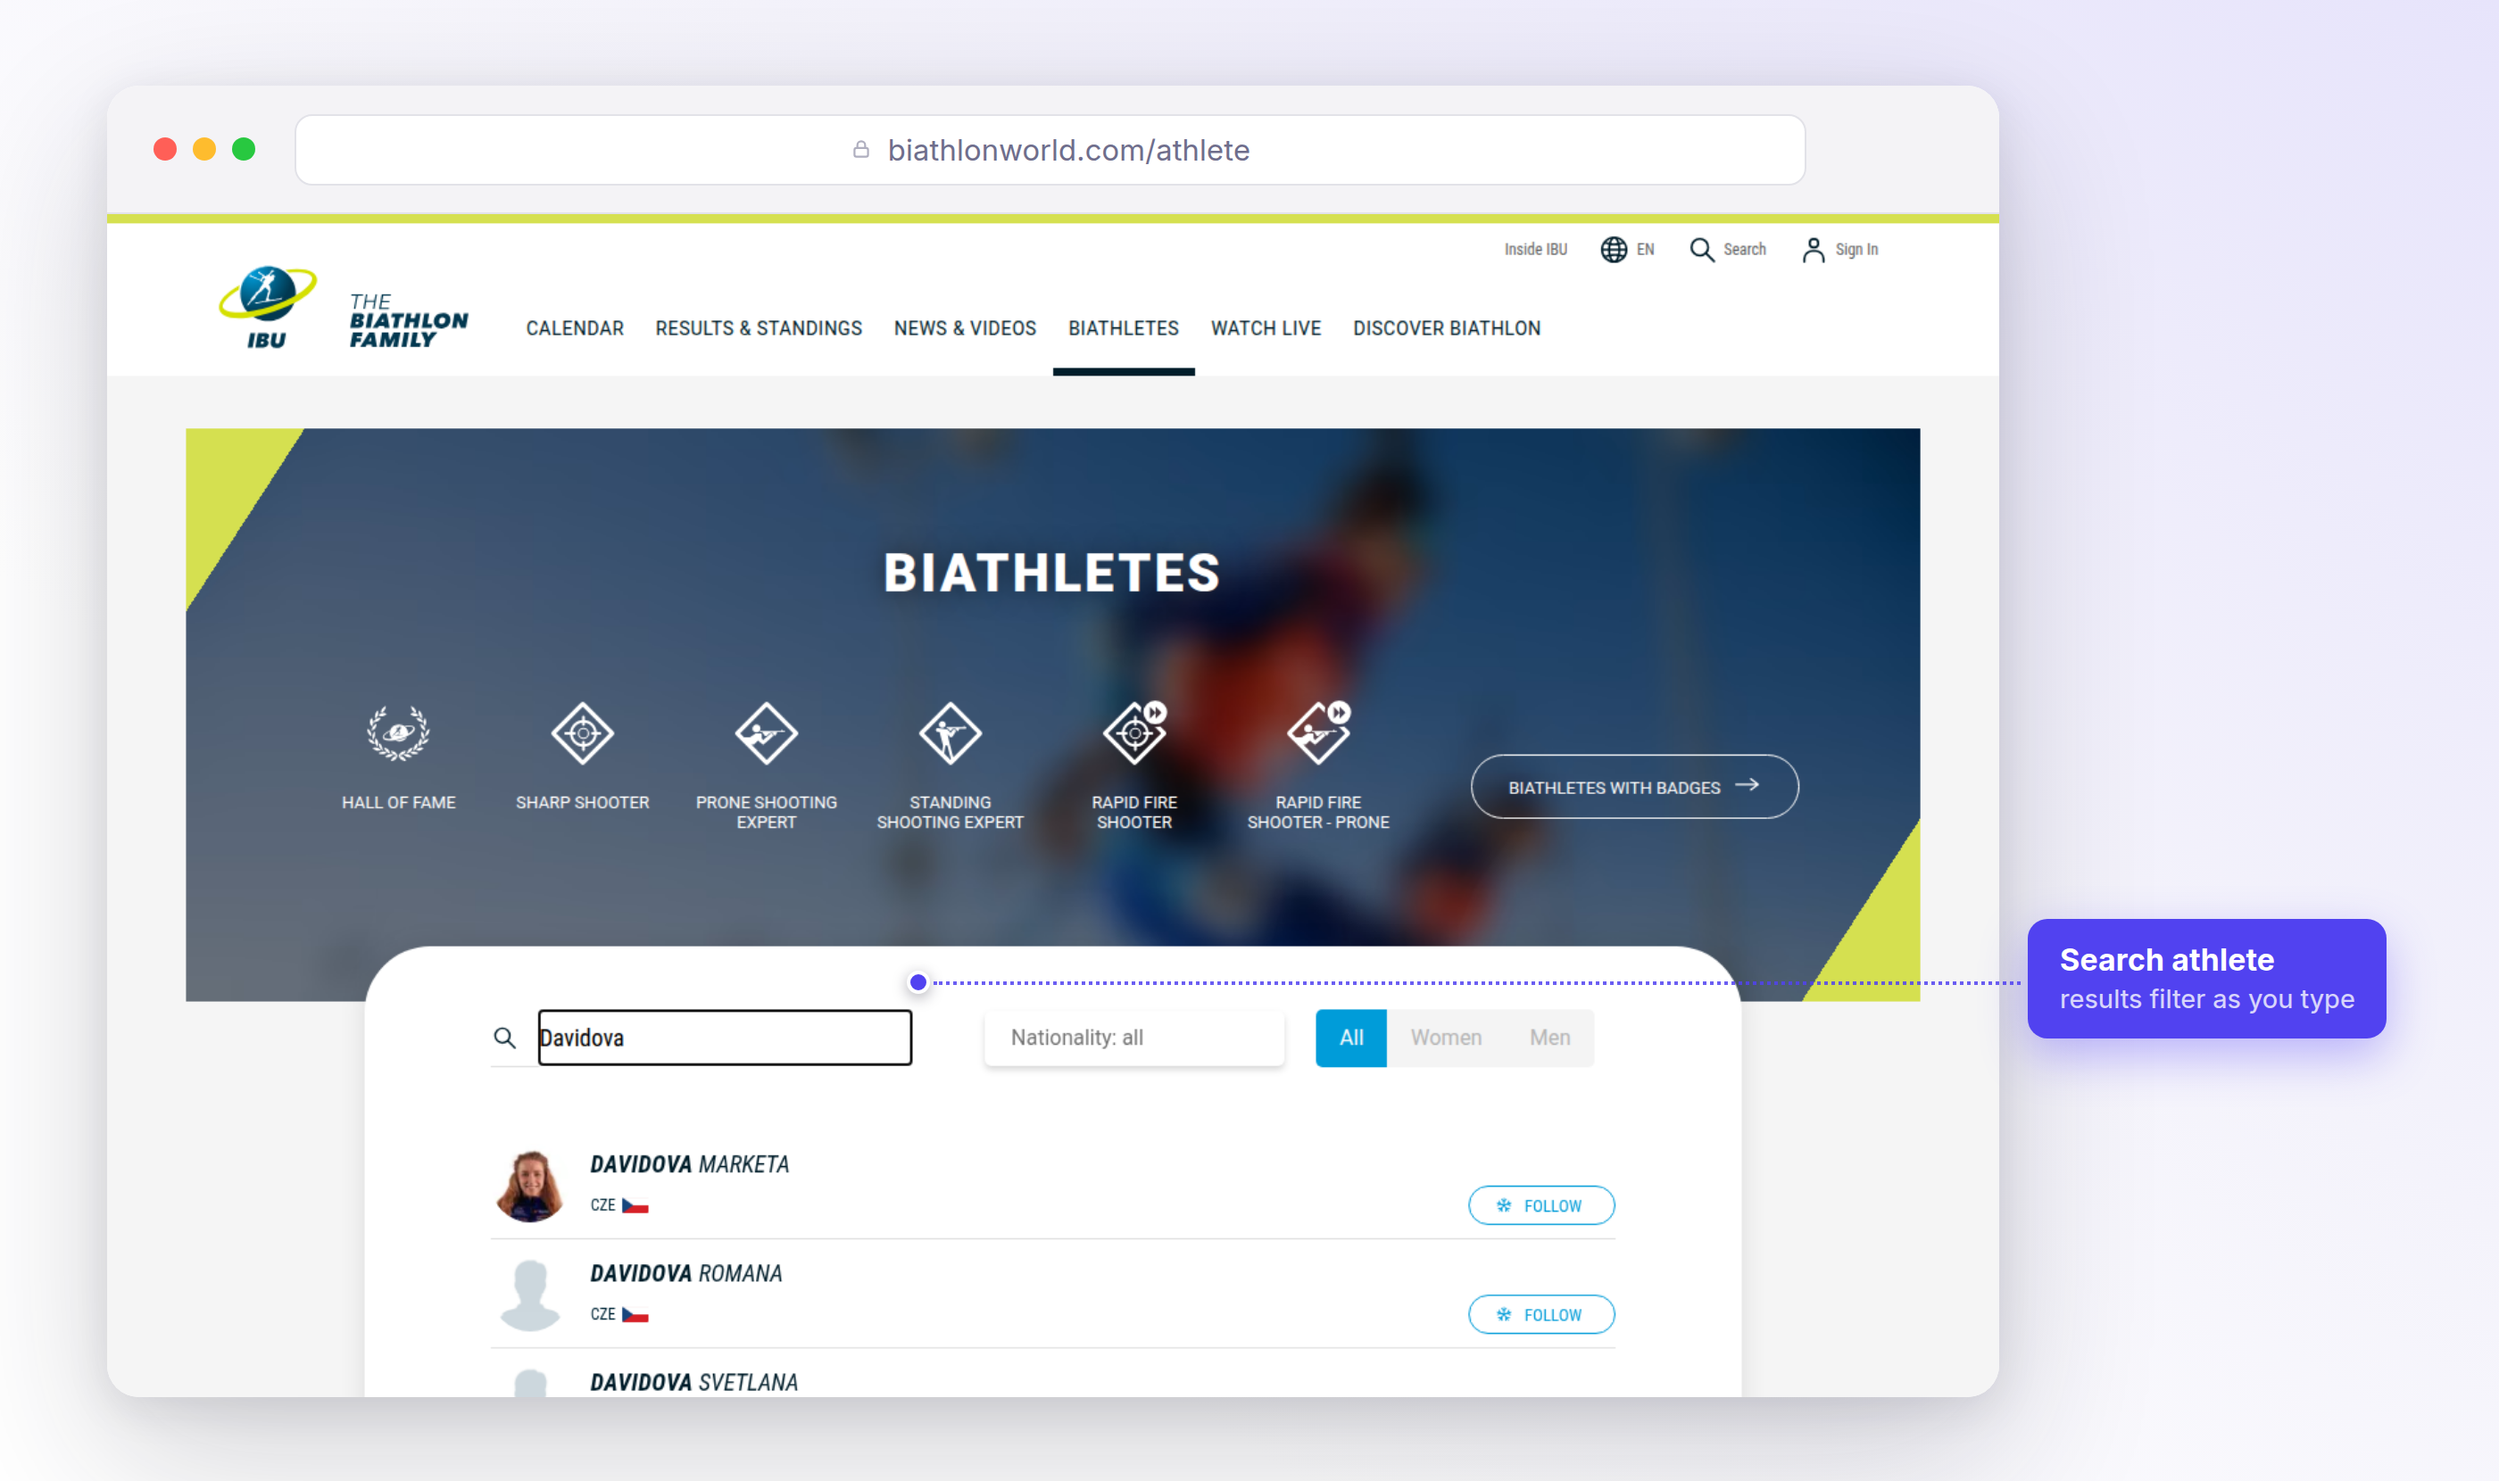
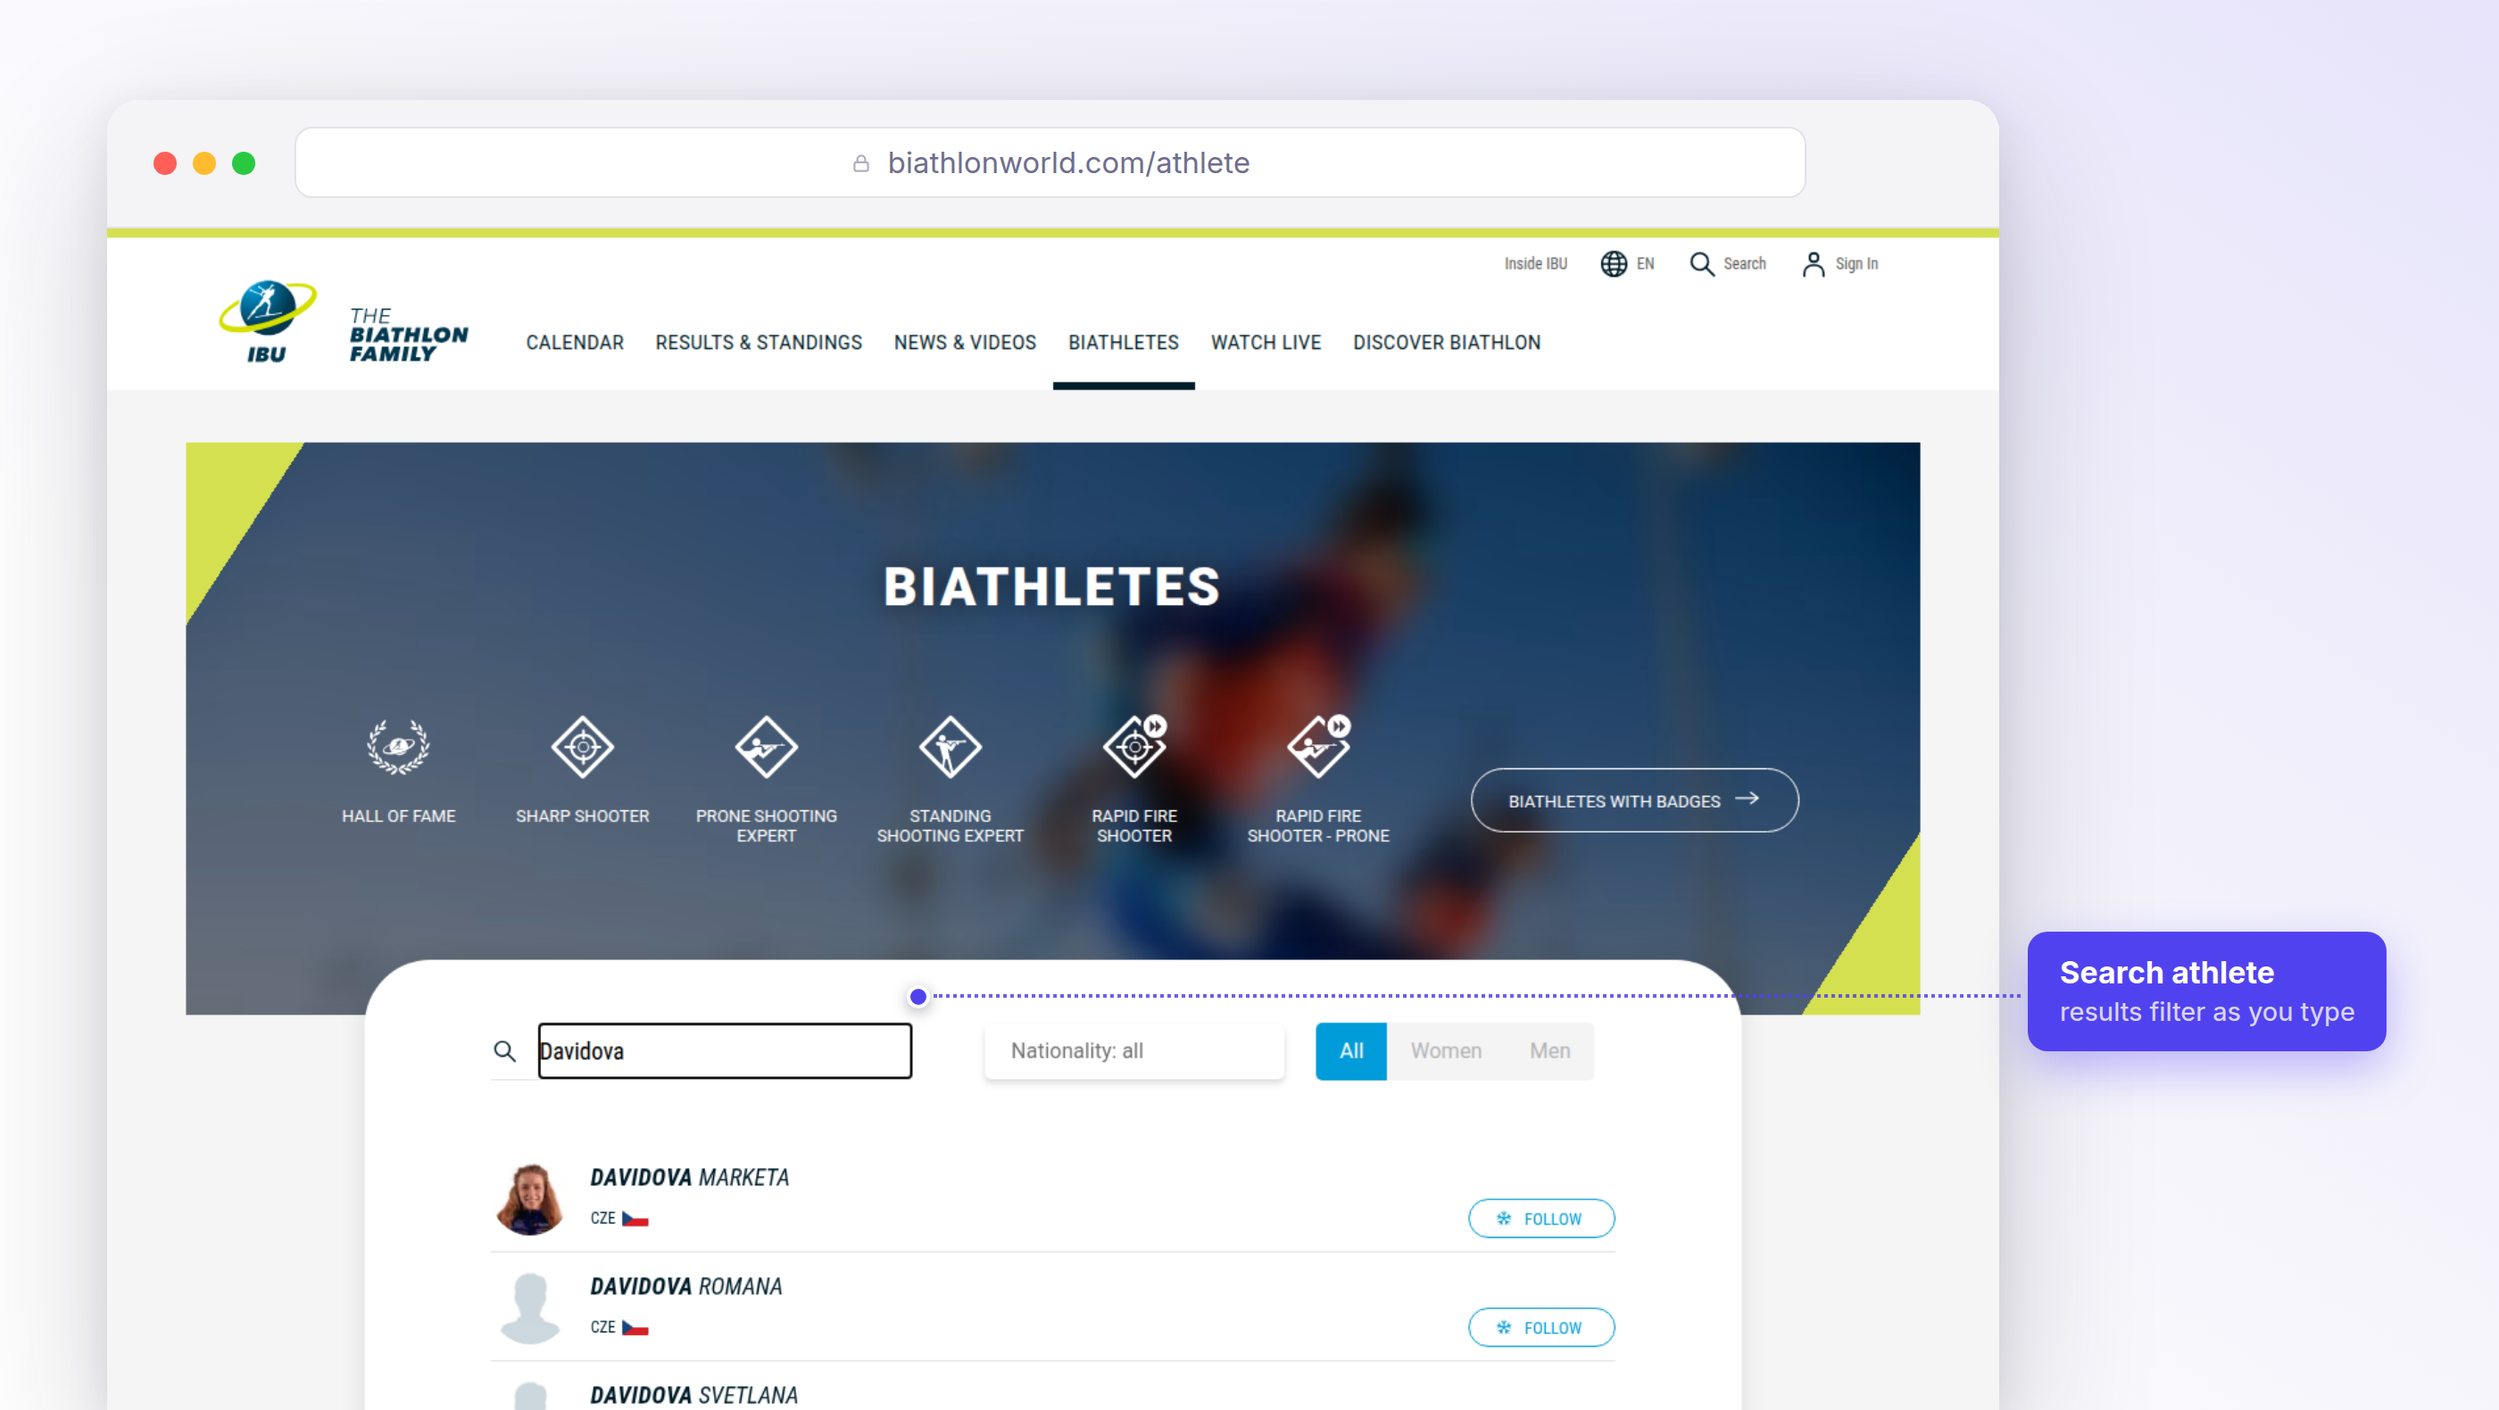
IBU ID visuals: bottom-docked window style
Windows now sit flush on the canvas bottom edge — top corners rounded and
visible, bottom cut without rounding — so the partially captured pages
read as continuing below the frame. Compositor + queue notes updated.

Claude-Session: https://claude.ai/code/session_01DVtaqNPaQzrwTcK6rdht1T

diff --git a/docs-guide/visuals/reference/biathlon-ibu-id/compositor/url.html b/docs-guide/visuals/reference/biathlon-ibu-id/compositor/url.html
@@ -1,9 +1,9 @@
 <!doctype html>
 <html><head><meta charset="utf-8"><link rel="stylesheet" href="shared.css">
 <style>
-  html, body { width: 1400px; height: 830px; }
-  /* full-window style: whole browser window visible, no bleed */
-  .window { left: 60px; top: 48px; bottom: auto; width: 1060px; }
+  html, body { width: 1400px; height: 790px; }
+  /* bottom-docked window: top corners rounded, bottom edge cut — the page continues below */
+  .window { left: 60px; bottom: 0; top: auto; width: 1060px; border-radius: 18px 18px 0 0; }
   .chrome { height: 72px; }
   .shot { width: 1060px; }
   .urlbar { font-size: 15px; }

diff --git a/docs-guide/visuals/reference/biathlon-ibu-id/compositor/search.html b/docs-guide/visuals/reference/biathlon-ibu-id/compositor/search.html
@@ -1,9 +1,9 @@
 <!doctype html>
 <html><head><meta charset="utf-8"><link rel="stylesheet" href="shared.css">
 <style>
-  html, body { width: 1400px; height: 830px; }
-  /* full-window style: whole browser window visible, no bleed */
-  .window { left: 60px; top: 48px; bottom: auto; width: 1060px; }
+  html, body { width: 1400px; height: 790px; }
+  /* bottom-docked window: top corners rounded, bottom edge cut — the page continues below */
+  .window { left: 60px; bottom: 0; top: auto; width: 1060px; border-radius: 18px 18px 0 0; }
   .chrome { height: 72px; }
   .shot { width: 1060px; }
 </style></head>

diff --git a/docs-guide/visuals/reference/biathlon-ibu-id/compositor/render.js b/docs-guide/visuals/reference/biathlon-ibu-id/compositor/render.js
@@ -3,7 +3,7 @@ const path = require('path');
 
 (async () => {
   const browser = await chromium.launch({ executablePath: '/opt/pw-browsers/chromium' });
-  const sizes = { field: 640, url: 830, search: 830 };
+  const sizes = { field: 640, url: 790, search: 790 };
   const page = await browser.newPage({ viewport: { width: 1400, height: 900 }, deviceScaleFactor: 2 });
   for (const name of process.argv.slice(2)) {
     await page.setViewportSize({ width: 1400, height: sizes[name] || 900 });

diff --git a/docs-guide/visuals/_VISUAL-TODOS.md b/docs-guide/visuals/_VISUAL-TODOS.md
@@ -205,7 +205,7 @@
 - Post-process: corner-zoom; bleed left+bottom; fade; horizontal callout pills.
 - Lands in: images/biathlon/ibu-id-field.png  →  used by en/sport-specific/biathlon/ibu-id.mdx (hero)
 
-### ibu-id — biathlonworld.com athlete URL   [full-window+callout]   ☑ (2026-07-15 — real capture framed in drawn browser chrome with the URL + ID highlighted; also produced a sibling search-page shot → images/biathlon/ibu-id-search.png, embedded in the page. Restyled same day from corner-zoom to **full-window** per Tomas — whole browser window, site top menu visible, no bleed. Compositor sources: `docs-guide/visuals/reference/biathlon-ibu-id/compositor/` — render via `node render.js field url search` with playwright + the raw captures one level up)
+### ibu-id — biathlonworld.com athlete URL   [full-window+callout]   ☑ (2026-07-15 — real capture framed in drawn browser chrome with the URL + ID highlighted; also produced a sibling search-page shot → images/biathlon/ibu-id-search.png, embedded in the page. Restyled same day per Tomas — final style is **bottom-docked window**: both top corners rounded and visible, site top menu in frame, bottom edge cut flush with the canvas (no bottom rounding) so the partially-captured page reads as continuing below. Compositor sources: `docs-guide/visuals/reference/biathlon-ibu-id/compositor/` — render via `node render.js field url search` with playwright + the raw captures one level up)
 - Go to: `https://www.biathlonworld.com/athlete/davidova-marketa/BTCZE20301199701` (public web)
 - State: Marketa Davidova's IBU athlete profile loaded; browser address bar visible.
 - Capture: top of the page including the address bar with the full URL.
